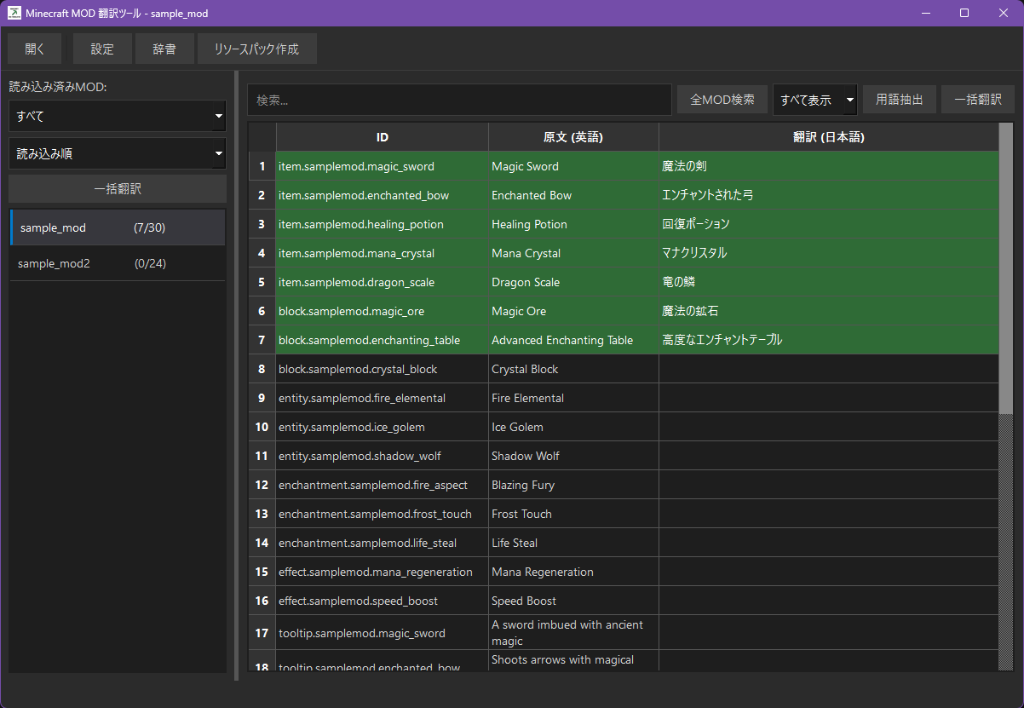
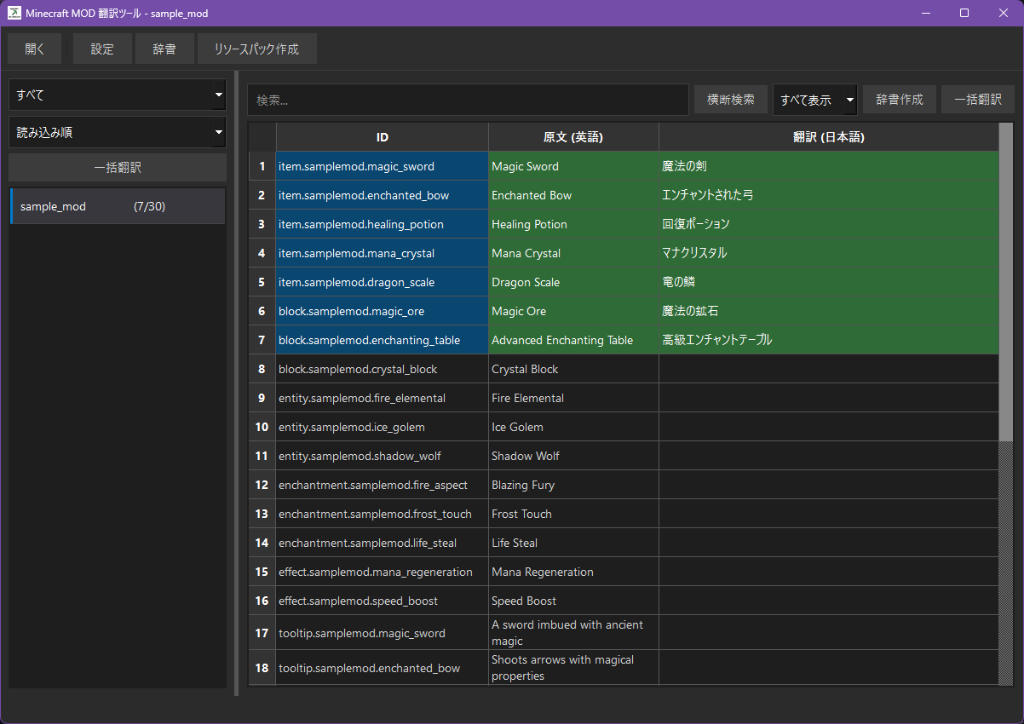
Update screenshot, add gitignore for run scripts and sample mods, rename UI labels

diff --git a/ui/main_window.py b/ui/main_window.py
@@ -105,7 +105,7 @@ class MainWindow(QMainWindow):
         # Left: MOD List
         left_widget = QWidget()
         left_layout = QVBoxLayout(left_widget)
-        left_layout.addWidget(QLabel("読み込み済みMOD:"))
+        # Filter dropdown (no label needed)
         
         # Filter dropdown
         from PySide6.QtWidgets import QComboBox
@@ -1538,8 +1538,8 @@ class MainWindow(QMainWindow):
              return
 
         confirm = QMessageBox.question(
-            self, "用語抽出 (AI)",
-            f"{len(current_translations)} 件の翻訳から用語を抽出しますか？\n"
+            self, "辞書作成 (AI)",
+            f"{len(current_translations)} 件の翻訳から辞書を作成しますか？\n"
             "(DeepSeek APIを使用)",
             QMessageBox.Yes | QMessageBox.No
         )
@@ -1659,7 +1659,7 @@ class MainWindow(QMainWindow):
             self, "全MODから辞書作成",
             f"対象MOD: {processed_mods} 件 (除外: {excluded_mods} 件)\n"
             f"テキスト項目数: {len(target_items)} 件\n\n"
-            "AIを使用して用語を抽出しますか？\n"
+            "AIを使用して辞書を作成しますか？\n"
             "(項目数が多い場合、時間がかかることがあります)",
             QMessageBox.Yes | QMessageBox.No
         )
@@ -1681,7 +1681,7 @@ class MainWindow(QMainWindow):
             QMessageBox.warning(self, "エラー", "API設定が必要です。")
             return
         
-        self.statusBar().showMessage(f"AIで用語を抽出中... (対象: {len(original_items)} 項目)")
+        self.statusBar().showMessage(f"AIで辞書を作成中... (対象: {len(original_items)} 項目)")
         self.toolbar.setEnabled(False)
         
         existing_glossary = self.glossary.get_terms()
@@ -1707,7 +1707,7 @@ class MainWindow(QMainWindow):
         # Ask user if they want AI extraction
         confirm = QMessageBox.question(
             self, "辞書ツール",
-            "AIを使用して用語（地名、アイテム名など）を抽出しますか？\n"
+            "AIを使用して辞書を作成しますか？\n"
             "抽出された用語は辞書に追加できます。\n\n"
             "(DeepSeek APIを使用 - 安価)",
             QMessageBox.Yes | QMessageBox.No
@@ -1725,7 +1725,7 @@ class MainWindow(QMainWindow):
             QMessageBox.warning(self, "エラー", "API設定が必要です。")
             return
         
-        self.statusBar().showMessage("AIで用語を抽出中...")
+        self.statusBar().showMessage("AIで辞書を作成中...")
         self.toolbar.setEnabled(False)
         
         existing_glossary = self.glossary.get_terms()
@@ -1749,7 +1749,7 @@ class MainWindow(QMainWindow):
         self.ai_extractor_thread = None
         
         if not extracted_terms:
-            self.statusBar().showMessage("用語が見つかりませんでした", 3000)
+            self.statusBar().showMessage("辞書に追加する項目が見つかりませんでした", 3000)
             return
         
         # Show dialog for user to select terms
@@ -1757,18 +1757,18 @@ class MainWindow(QMainWindow):
         if dialog.exec():
             added_count = dialog.get_added_count()
             if added_count > 0:
-                self.statusBar().showMessage(f"{added_count} 件の用語を辞書に追加しました", 5000)
+                self.statusBar().showMessage(f"{added_count} 件を辞書に追加しました", 5000)
             else:
-                self.statusBar().showMessage("用語は追加されませんでした", 3000)
+                self.statusBar().showMessage("辞書に追加されませんでした", 3000)
         else:
-            self.statusBar().showMessage("用語抽出をスキップしました", 3000)
+            self.statusBar().showMessage("辞書作成をスキップしました", 3000)
     
     def _on_ai_extraction_error(self, error_msg):
         """Handle AI extraction error."""
         self.toolbar.setEnabled(True)
         self.ai_extractor_thread = None
-        self.statusBar().showMessage("用語抽出に失敗しました", 3000)
-        QMessageBox.warning(self, "AI抽出エラー", f"用語抽出中にエラーが発生しました:\n{error_msg}")
+        self.statusBar().showMessage("辞書作成に失敗しました", 3000)
+        QMessageBox.warning(self, "AI辞書作成エラー", f"辞書作成中にエラーが発生しました:\n{error_msg}")
 
     # --- Export ---
     def export_resource_pack(self):

diff --git a/ui/term_extraction_dialog.py b/ui/term_extraction_dialog.py
@@ -19,7 +19,7 @@ class TermExtractionDialog(QDialog):
         self.glossary = glossary
         self.selected_terms = {}
         
-        self.setWindowTitle("抽出された用語の確認")
+        self.setWindowTitle("辞書に追加する項目の選択")
         self.resize(700, 500)
         self.setModal(True)
         
@@ -30,7 +30,7 @@ class TermExtractionDialog(QDialog):
         
         # Header
         header_label = QLabel(
-            f"翻訳から {len(self.extracted_terms)} 件の用語が抽出されました。\n"
+            f"{len(self.extracted_terms)} 件の項目が見つかりました。\n"
             "辞書に追加する項目にチェックを入れてください。"
         )
         header_label.setStyleSheet("font-size: 12px; margin-bottom: 10px;")
@@ -91,7 +91,7 @@ class TermExtractionDialog(QDialog):
         # Action buttons
         btn_layout = QHBoxLayout()
         
-        add_btn = QPushButton("選択した用語を辞書に追加")
+        add_btn = QPushButton("選択した項目を辞書に追加")
         add_btn.clicked.connect(self._add_selected)
         add_btn.setStyleSheet("background-color: #4CAF50; color: white; font-weight: bold; padding: 8px 16px;")
         btn_layout.addWidget(add_btn)

diff --git a/ui/editor_widget.py b/ui/editor_widget.py
@@ -24,7 +24,7 @@ class EditorWidget(QWidget):
         toolbar.addWidget(self.search_input)
         
         # All MODs search button
-        self.search_all_mods_btn = QPushButton("全MOD検索")
+        self.search_all_mods_btn = QPushButton("横断検索")
         self.search_all_mods_btn.setToolTip("検索語が含まれるMODのみを一覧に表示します")
         self.search_all_mods_btn.clicked.connect(self._on_search_all_mods_clicked)
         toolbar.addWidget(self.search_all_mods_btn)
@@ -38,8 +38,8 @@ class EditorWidget(QWidget):
         self.filter_combo.currentIndexChanged.connect(self.filter_table)
         toolbar.addWidget(self.filter_combo)
         
-        self.extract_terms_btn = QPushButton("用語抽出")
-        self.extract_terms_btn.setToolTip("現在のリストから用語をAI抽出します")
+        self.extract_terms_btn = QPushButton("辞書作成")
+        self.extract_terms_btn.setToolTip("翻訳から辞書をAI作成します")
         toolbar.addWidget(self.extract_terms_btn)
         
         self.translate_btn = QPushButton("一括翻訳")
